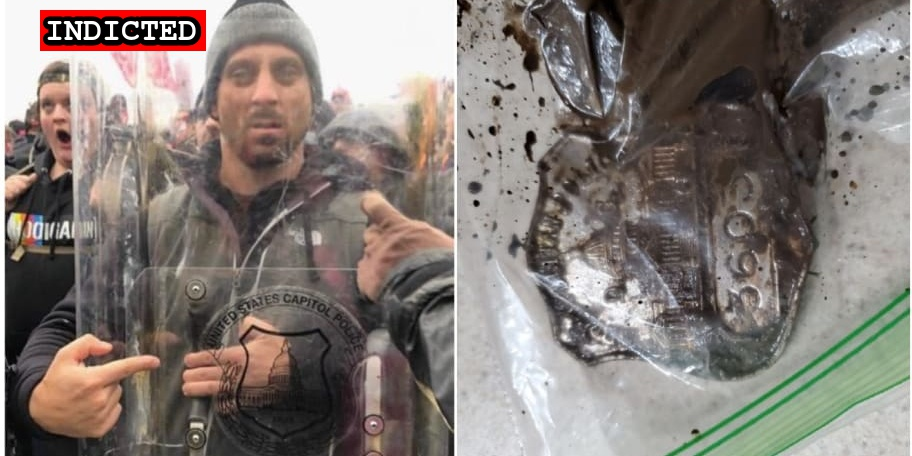
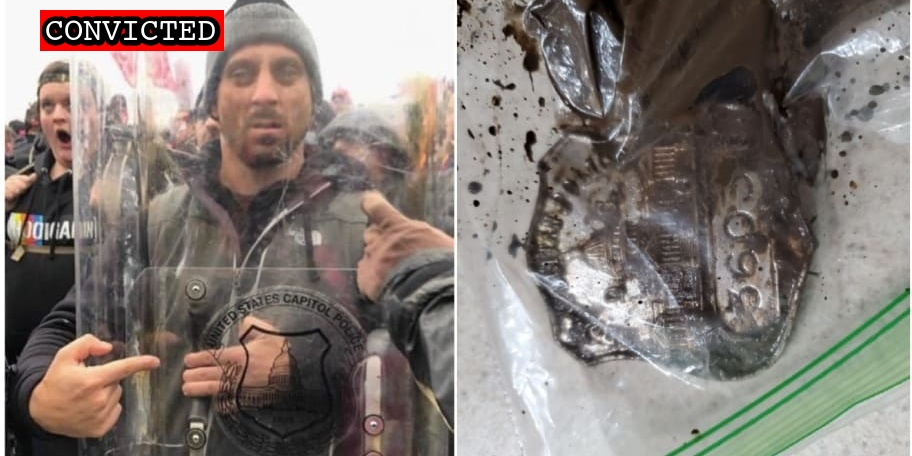
Missing convictions

Changed region(s): [[0.0307, 0.0, 0.2456, 0.1228]]

diff --git a/docs/_suspects/robert-gieswein.md b/docs/_suspects/robert-gieswein.md
@@ -4,11 +4,11 @@ lastName: Gieswein
 hashtag: WildDog
 aka: Machine Gun Bobby
 residence: Colorado
-status: Indicted
+status: Convicted
 date: 2021-01-16
 charged: 2021-01-16
 indicted: 2021-01-27
-convicted:
+convicted: 2023-03-06
 acquitted:
 sentenced:
 dismissed:
@@ -32,7 +32,7 @@ raid:
 perpwalk:
 quote:
 title: Robert Gieswein charged on January 16, 2021
-description: Click for latest case details. Suspects considered innocent until proven guilty.
+description: Convicted on March 6, 2023. Click for latest case details.
 author: seditiontrack
 layout: suspect
 published: true
@@ -40,22 +40,33 @@ caseNumber: 21-cr-0024
 caseName: USA v. GIESWEIN
 judge: Trevor N. McFadden
 videos:
-- title: Video Exhibit 1 - U.S. v. Gieswein.mp4 (0:04:54)
-  url: https://propublica-data-j6cases-videos.s3.us-east-1.amazonaws.com/9f184490dc1b01392a3b2cde48001122.mp4
-- title: Video Exhibit 3 - U.S. v. Gieswein.mp4 (0:02:04)
-  url: https://propublica-data-j6cases-videos.s3.us-east-1.amazonaws.com/8e367cc0dc1b01392a3b2cde48001122.mp4
-- title: Video Exhibit 2 - U.S. v. Gieswein.mp4 (0:01:36)
-  url: https://propublica-data-j6cases-videos.s3.us-east-1.amazonaws.com/cf8e8f10dc1b01392a3b2cde48001122.mp4
-- title: Video Exhibit 4 - U.S. v. Gieswein.mp4 (0:01:52)
-  url: https://propublica-data-j6cases-videos.s3.us-east-1.amazonaws.com/81e8c230dc1b01392a3b2cde48001122.mp4
+  - title: Video Exhibit 1 - U.S. v. Gieswein.mp4 (0:04:54)
+    url: https://propublica-data-j6cases-videos.s3.us-east-1.amazonaws.com/9f184490dc1b01392a3b2cde48001122.mp4
+  - title: Video Exhibit 3 - U.S. v. Gieswein.mp4 (0:02:04)
+    url: https://propublica-data-j6cases-videos.s3.us-east-1.amazonaws.com/8e367cc0dc1b01392a3b2cde48001122.mp4
+  - title: Video Exhibit 2 - U.S. v. Gieswein.mp4 (0:01:36)
+    url: https://propublica-data-j6cases-videos.s3.us-east-1.amazonaws.com/cf8e8f10dc1b01392a3b2cde48001122.mp4
+  - title: Video Exhibit 4 - U.S. v. Gieswein.mp4 (0:01:52)
+    url: https://propublica-data-j6cases-videos.s3.us-east-1.amazonaws.com/81e8c230dc1b01392a3b2cde48001122.mp4
 charges:
+  - code: 18 USC § 111(a)(1)
+    title: Assaulting, resisting, or impeding certain officers or employees
+    url: https://www.law.cornell.edu/uscode/text/18/111
+    felony: true
+  - code: 18 USC § 111(a)(1)
+    title: Assaulting, resisting, or impeding certain officers or employees
+    url: https://www.law.cornell.edu/uscode/text/18/111
+    felony: true
 sentence:
 ---
+
 - [News Report](https://www.denverpost.com/2021/01/18/colorado-us-capitol-riot-robert-gieswein/)
 - [Statement of Facts](https://www.justice.gov/opa/page/file/1360831/download)
 - [Incriminating Evidence (VIDEO)](https://twitter.com/Cleavon_MD/status/1352172510603689991?s=20)
-- [Indictment](https://www.justice.gov/opa/page/file/1361206/download)
+- [Indictment](https://storage.courtlistener.com/recap/gov.uscourts.dcd.226701/gov.uscourts.dcd.226701.129.0_1.pdf)
 - [Body Camera Evidence (VIDEO)](https://twitter.com/ryanjreilly/status/1425070641011695618)
 - [Government motion to Continue](https://extremism.gwu.edu/sites/g/files/zaxdzs2191/f/Robert%20Gieswein%20Defense%20Opposition%20to%20Government%20Motion%20to%20Exclude%20Time%20Under%20the%20Speedy%20Trial%20Act.pdf)
 - [Government's reploy to Defense Opposition to Continue](https://extremism.gwu.edu/sites/g/files/zaxdzs2191/f/Robert%20Gieswein%20Government%20Reply%20to%20Opposition%20to%20Motion%20to%20Continue%20and%20to%20Exclude%20Time%20Under%20the%20Speedy%20Trial%20Act.pdf)
 - [Detention Order](https://extremism.gwu.edu/sites/g/files/zaxdzs2191/f/Robert%20Gieswein%20Government%20Opposition%20to%20Motion%20for%20Hearing%20and%20Revocation%20of%20Detention%20Order.pdf)
+- [Plea Agreement](https://storage.courtlistener.com/recap/gov.uscourts.dcd.226701/gov.uscourts.dcd.226701.137.0_1.pdf)
+- [Statement of Offense](https://storage.courtlistener.com/recap/gov.uscourts.dcd.226701/gov.uscourts.dcd.226701.138.0_2.pdf)

diff --git a/docs/_suspects/thomas-sibick.md b/docs/_suspects/thomas-sibick.md
@@ -4,16 +4,16 @@ lastName: Sibick
 hashtag: BuffaloBreacher
 aka:
 residence: New York
-status: Indicted
+status: Convicted
 date: 2021-03-12
 charged: 2021-03-12
 indicted: 2021-04-09
-convicted:
+convicted: 2023-03-03
 acquitted:
 sentenced:
 dismissed:
 deceased:
-plea_hearing:
+plea_hearing: 2023-03-03
 trial_date:
 trial_type:
 jury_selection:
@@ -32,7 +32,7 @@ raid:
 perpwalk:
 quote: "Just got tear-gassed, but we’re going, baby, we’re going!"
 title: Thomas Sibick arrested on March 12, 2021
-description: Click for latest case details. Suspects innocent until proven guilty.
+description: Convicted on March 3, 2023. Click for latest case details.
 author: seditiontrack
 layout: suspect
 published: true
@@ -40,13 +40,26 @@ caseNumber: 21-cr-0291
 caseName: USA v. SIBICK
 judge: Amy B. Jackson
 videos:
-- title: Instagram video_Sibick.mp4 (0:01:06)
-  url: https://propublica-data-j6cases-videos.s3.us-east-1.amazonaws.com/927bffe0ce2c013960702cde48001122.mp4
-- title: Radio and Badge Robbery_Sibick.mp4 (0:00:47)
-  url: https://propublica-data-j6cases-videos.s3.us-east-1.amazonaws.com/900f42e0ce2c013960702cde48001122.mp4
+  - title: Instagram video_Sibick.mp4 (0:01:06)
+    url: https://propublica-data-j6cases-videos.s3.us-east-1.amazonaws.com/927bffe0ce2c013960702cde48001122.mp4
+  - title: Radio and Badge Robbery_Sibick.mp4 (0:00:47)
+    url: https://propublica-data-j6cases-videos.s3.us-east-1.amazonaws.com/900f42e0ce2c013960702cde48001122.mp4
 charges:
+  - code: 18 USC § 111(a)(1)
+    title: Assaulting, resisting, or impeding certain officers or employees
+    url: https://www.law.cornell.edu/uscode/text/18/111
+    felony: true
+  - code: 18 USC § 661
+    title: Theft
+    url: https://www.law.cornell.edu/uscode/text/18/661
+    felony: true
+  - code: 18 USC § 661
+    title: Theft
+    url: https://www.law.cornell.edu/uscode/text/18/661
+    felony: true
 sentence:
 ---
+
 - [News Report](https://buffalonews.com/news/local/buffalo-man-charged-in-attack-on-capitol-officer-says-he-buried-cops-badge-in-backyard/article_3c9f8f5e-8398-11eb-87ca-9f337774ebb3.html)
 - [Statement of Facts](https://www.justice.gov/usao-dc/case-multi-defendant/file/1379346/download)
 - [Indictment](https://extremism.gwu.edu/sites/g/files/zaxdzs2191/f/Sibick%20Head%20Young%20Indictment.pdf)
@@ -55,3 +68,5 @@ sentence:
 - [Defense Response to Motion for Appeal of Release Order](https://extremism.gwu.edu/sites/g/files/zaxdzs2191/f/Thomas%20Sibick%20Defense%20Response%20to%20Motion%20for%20Appeal%20of%20Release%20Order.pdf)
 - [Detention Memo](https://extremism.gwu.edu/sites/g/files/zaxdzs2191/f/Thomas%20Sibick%20Government%20Memorandum%20in%20Support%20of%20Detention.pdf)
 - [Detention Order](https://extremism.gwu.edu/sites/g/files/zaxdzs2191/f/Thomas%20Sibick%20Order%20of%20Detention.pdf)
+- [Plea Agreement](https://storage.courtlistener.com/recap/gov.uscourts.dcd.229974/gov.uscourts.dcd.229974.190.0.pdf)
+- [Statement of Offense](https://storage.courtlistener.com/recap/gov.uscourts.dcd.229975/gov.uscourts.dcd.229975.191.0.pdf)

diff --git a/docs/_suspects/hatchet-speed.md b/docs/_suspects/hatchet-speed.md
@@ -4,11 +4,11 @@ lastName: Speed
 hashtag:
 aka:
 residence: Virginia
-status: Indicted
+status: Convicted
 date: 2022-06-21
 charged: 2022-06-21
 indicted: 2023-01-11
-convicted:
+convicted: 2023-03-07
 acquitted:
 sentenced:
 dismissed:
@@ -32,7 +32,7 @@ raid:
 perpwalk:
 quote: "I’m going in there. Like I have no respect for people in this building. They have no respect for me. I have no respect for them."
 title: Hatchet Speed charged on June 21st, 2022
-description: Click for latest case details. Suspects innocent until proven guilty.
+description: Convicted on March 7, 2023. Click for latest case details.
 author: seditiontrack
 layout: suspect
 published: true
@@ -41,8 +41,29 @@ caseName: USA v. SPEED
 judge: Trevor N. McFadden
 videos:
 charges:
+  - code: 18 USC § 1512(c)(2),2
+    title: Obstruction of an Official Proceeding (Aiding and Abetting)
+    url: https://www.law.cornell.edu/uscode/text/18/1512
+    felony: true
+  - code: 18 USC § 1752(a)(1)
+    title: Entering a restricted building or grounds
+    url: https://www.law.cornell.edu/uscode/text/18/1752
+    felony: false
+  - code: 18 USC § 1752(a)(2)
+    title: Disorderly and disruptive conduct in a restricted building or grounds
+    url: https://www.law.cornell.edu/uscode/text/18/1752
+    felony: false
+  - code: 40 USC § 5104(e)(2)(D)
+    title: Disorderly Conduct in a Capitol Building
+    url: https://www.law.cornell.edu/uscode/text/40/5104
+    felony: false
+  - code: 40 USC § 5104(e)(2)(G)
+    title: Parading, demonstrating or picketing in a Capitol building
+    url: https://www.law.cornell.edu/uscode/text/40/5104
+    felony: false
 sentence:
 ---
+
 - [News Report](https://www.msn.com/en-us/news/crime/fbi-navy-petty-officer-arrested-on-capitol-riot-charges-had-arsenal-of-guns-praised-unabomber/ar-AAYNcvq)
 - [Complaint](https://www.justice.gov/usao-dc/case-multi-defendant/file/1514546/download)
 - [Statement of Facts](https://www.justice.gov/usao-dc/case-multi-defendant/file/1514551/download)
